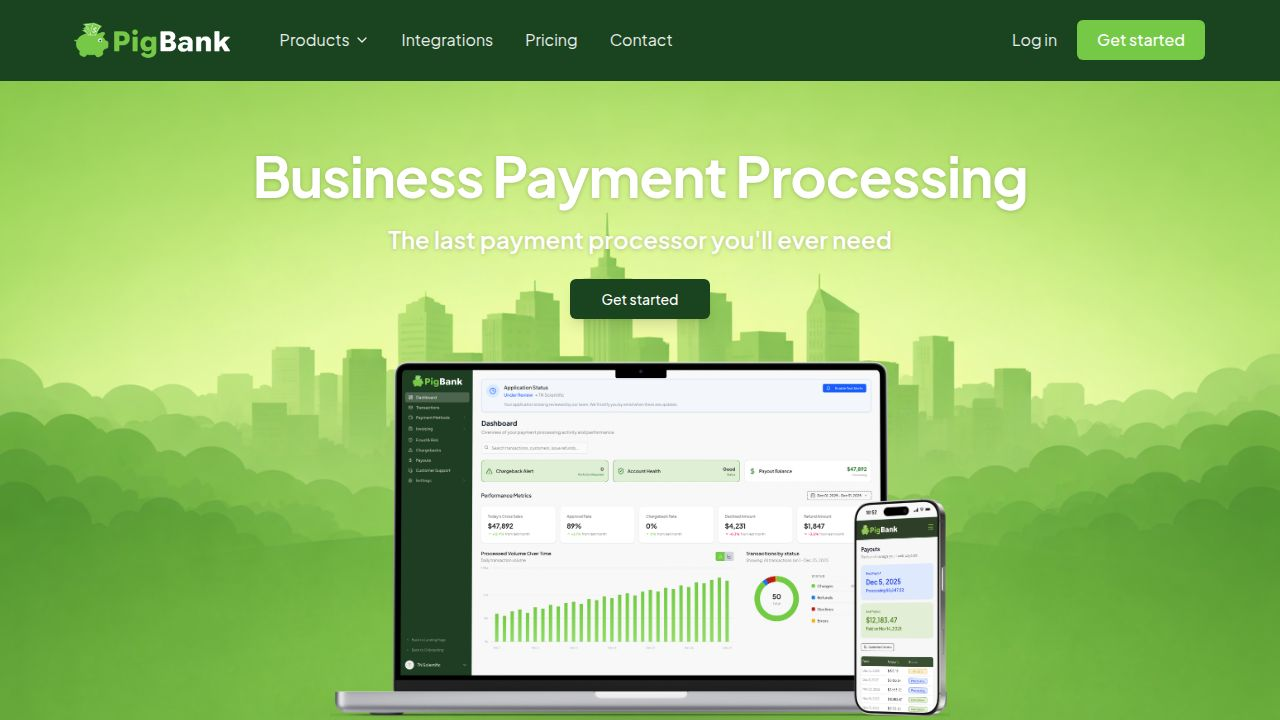
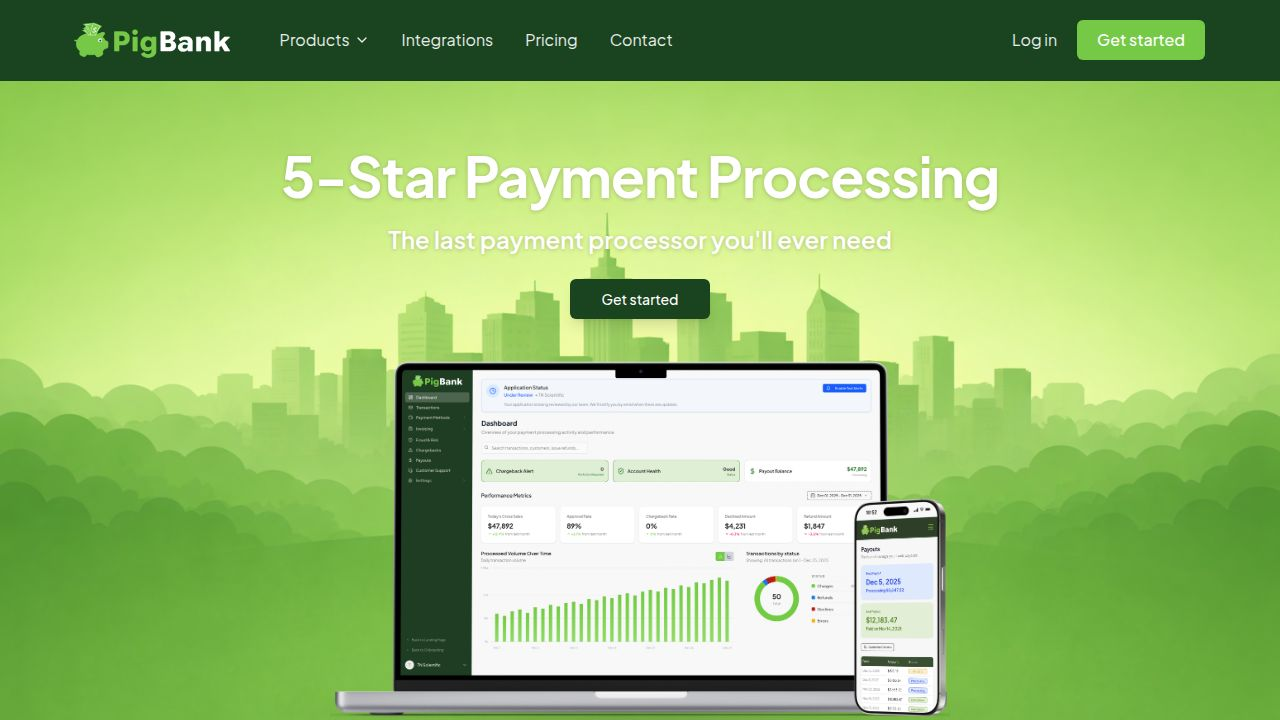
Update landing page headline to emphasize 5-star payment processing
Change the main headline on the landing page from "Business Payment Processing" to "5-Star Payment Processing" in `client/src/pages/Landing.tsx`.

Replit-Commit-Author: Agent
Replit-Commit-Session-Id: 96020ddc-f98f-4070-bbd5-d7d39c5acb5d
Replit-Commit-Checkpoint-Type: intermediate_checkpoint
Replit-Commit-Event-Id: f0ae6030-32b5-46a2-9cad-04d48ff623c9
Replit-Commit-Screenshot-Url: https://storage.googleapis.com/screenshot-production-us-central1/ee567252-c1f1-45c7-bba9-ef8d3212ce6e/96020ddc-f98f-4070-bbd5-d7d39c5acb5d/TYBISol
Replit-Helium-Checkpoint-Created: true

Changed region(s): [[0.1875, 0.2139, 0.8125, 0.3056]]

diff --git a/client/src/pages/Landing.tsx b/client/src/pages/Landing.tsx
@@ -471,7 +471,7 @@ export default function Landing() {
               <div className="flex flex-col items-center text-center gap-6">
                 <div className="space-y-4">
                   <h1 className="hero-title font-bold tracking-tight text-white" style={{ textShadow: '0 1px 4px rgba(0,0,0,0.2)' }}>
-                    Business Payment Processing
+                    5-Star Payment Processing
                   </h1>
                   <p className="text-xl md:text-2xl text-white font-semibold" style={{ textShadow: '0 1px 4px rgba(0,0,0,0.2)' }}>
                     The last payment processor you'll ever need
